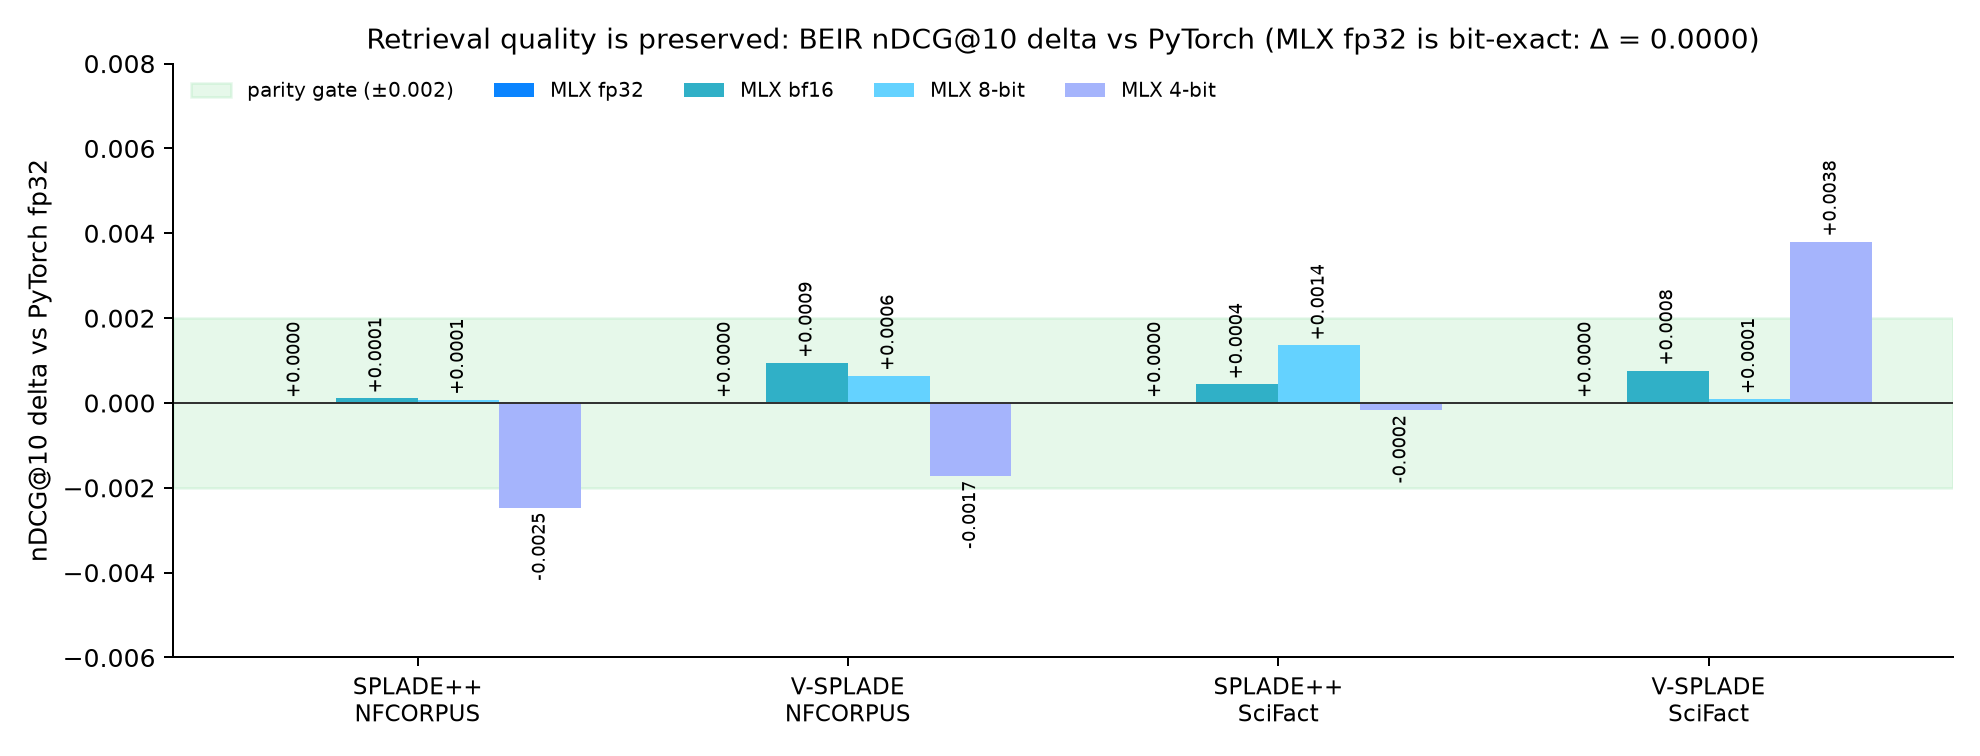
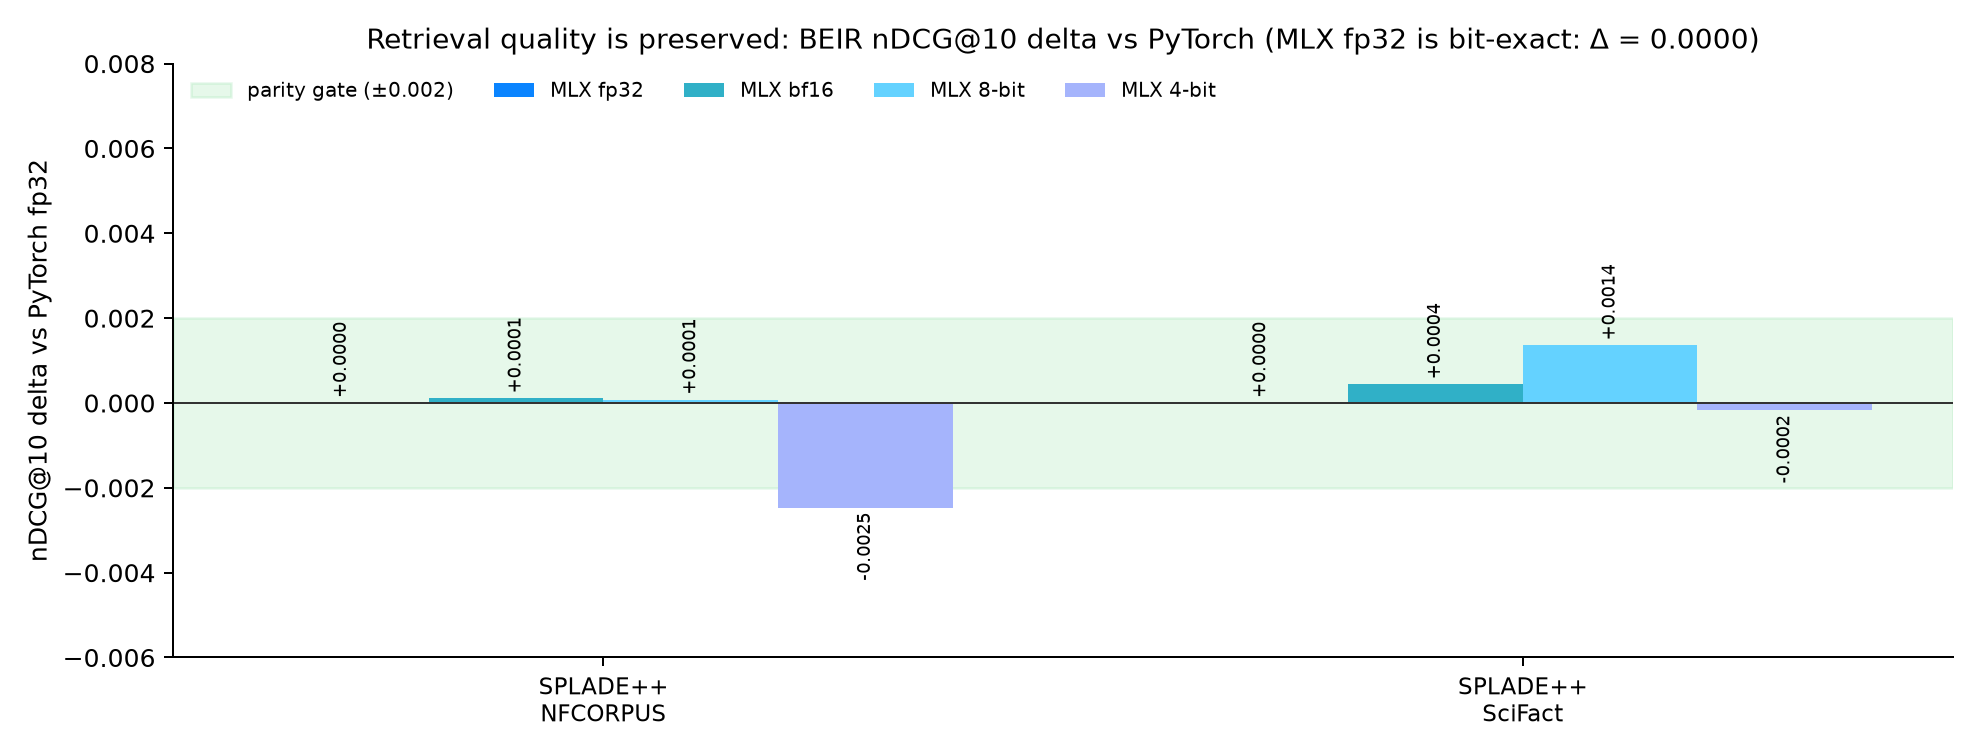
Correct V-SPLADE misidentification; remove efficient-splade branding
V-SPLADE (arXiv:2605.30917) is NAVER's multimodal inference-free sparse
retriever for visual document retrieval (naver/v-splade-*, ModernVBERT,
Apache-2.0) -- NOT the SIGIR'22 efficient-splade-V text pair.

- Delete NomaDamas/efficient-splade-V-large-{query,doc}-mlx HF repos
- Strip efficient-splade from model lists, publisher, charts, README
- Debrand REPORT/PLAN with correction notes; text measurements remain valid
- README announces the real V-SPLADE MLX port (in progress)

diff --git a/scripts/publish_hf.py b/scripts/publish_hf.py
@@ -36,22 +36,6 @@ MODELS = [
         "quality": "BEIR quality parity vs PyTorch fp32: nDCG@10 delta +0.0001 (NFCorpus) / +0.0004 (SciFact) in bfloat16.",
     },
     {
-        "src": "naver/efficient-splade-V-large-query",
-        "dst": "NomaDamas/efficient-splade-V-large-query-mlx",
-        "license": "cc-by-nc-sa-4.0",
-        "nc": True,
-        "desc": "V-SPLADE (Efficient SPLADE level V) QUERY encoder (DistilBERT). Use together with the -doc encoder.",
-        "quality": "BEIR quality parity vs PyTorch fp32 (query+doc pair): nDCG@10 delta +0.0009 (NFCorpus) / +0.0008 (SciFact) in bfloat16. 2.1 ms/query on an M4 Max.",
-    },
-    {
-        "src": "naver/efficient-splade-V-large-doc",
-        "dst": "NomaDamas/efficient-splade-V-large-doc-mlx",
-        "license": "cc-by-nc-sa-4.0",
-        "nc": True,
-        "desc": "V-SPLADE (Efficient SPLADE level V) DOCUMENT encoder (DistilBERT). Use together with the -query encoder.",
-        "quality": "BEIR quality parity vs PyTorch fp32 (query+doc pair): nDCG@10 delta +0.0009 (NFCorpus) / +0.0008 (SciFact) in bfloat16.",
-    },
-    {
         "src": "naver/splade-v3-distilbert",
         "dst": "NomaDamas/splade-v3-distilbert-mlx",
         "license": "cc-by-nc-sa-4.0",

diff --git a/scripts/make_charts.py b/scripts/make_charts.py
@@ -45,7 +45,7 @@ def latency_chart() -> None:
     mlxq8 = _load("mlx_float32_q8")
 
     panels = [
-        ("V-SPLADE query encoder — query (seq 32, batch 1)", "efficient-splade-V-large-query", "query-L32-B1"),
+        ("SPLADE++ (BERT-base) — queries (seq 32, batch 1)", "splade-cocondenser-ensembledistil", "query-L32-B1"),
         ("SPLADE++ (BERT-base) — documents (seq 256, batch 32)", "splade-cocondenser-ensembledistil", "doc-L256-B32"),
     ]
 
@@ -112,12 +112,8 @@ def latency_chart() -> None:
 def quality_chart() -> None:
     q = json.loads((RESULTS / "quality_ndcg.json").read_text())
     cells = [
-        (ds, fam, short)
+        (ds, "splade-cocondenser-ensembledistil", "SPLADE++")
         for ds in ("nfcorpus", "scifact")
-        for fam, short in (
-            ("splade-cocondenser-ensembledistil", "SPLADE++"),
-            ("efficient-splade-V-large", "V-SPLADE"),
-        )
     ]
     configs = [("mlx-float32", "fp32"), ("mlx-bfloat16", "bf16"), ("mlx-q8", "8-bit"), ("mlx-q4", "4-bit")]
     colors = ["#0a84ff", "#30b0c7", "#64d2ff", "#a5b4fc"]

diff --git a/bench/workloads.py b/bench/workloads.py
@@ -21,19 +21,10 @@ REFERENCE_DIR = DATA_DIR / "reference"
 # ---------------------------------------------------------------------------
 # roles: which workload kinds this checkpoint is used for.
 # splade-cocondenser is symmetric (one encoder for queries and docs).
-# efficient-splade-V ("V-SPLADE") is an asymmetric query/doc pair.
 P0_MODELS: dict[str, dict] = {
     "splade-cocondenser-ensembledistil": {
         "hf_id": "naver/splade-cocondenser-ensembledistil",
         "roles": ("query", "doc"),
-    },
-    "efficient-splade-V-large-query": {
-        "hf_id": "naver/efficient-splade-V-large-query",
-        "roles": ("query",),
-    },
-    "efficient-splade-V-large-doc": {
-        "hf_id": "naver/efficient-splade-V-large-doc",
-        "roles": ("doc",),
     },
 }
 

diff --git a/splade_mlx/__init__.py b/splade_mlx/__init__.py
@@ -73,7 +73,7 @@ def load(
 
 
 class SpladePair:
-    """Asymmetric V-SPLADE pair: separate query and document encoders."""
+    """Asymmetric pair of SPLADE text encoders (separate query and document models)."""
 
     def __init__(self, query_model, query_tokenizer, doc_model, doc_tokenizer):
         self.query_model = query_model
@@ -102,8 +102,8 @@ class SpladePair:
 
 
 def load_pair(
-    query_hf_id: str = "naver/efficient-splade-V-large-query",
-    doc_hf_id: str = "naver/efficient-splade-V-large-doc",
+    query_hf_id: str,
+    doc_hf_id: str,
     dtype: str = "float32",
     quantize_bits: int | None = None,
 ) -> SpladePair:

diff --git a/bench/eval_beir.py b/bench/eval_beir.py
@@ -28,10 +28,6 @@ MODEL_FAMILIES = {
         "query": "naver/splade-cocondenser-ensembledistil",
         "doc": "naver/splade-cocondenser-ensembledistil",
     },
-    "efficient-splade-V-large": {
-        "query": "naver/efficient-splade-V-large-query",
-        "doc": "naver/efficient-splade-V-large-doc",
-    },
 }
 
 CONFIGS = ["torch-mps-fp32", "mlx-float32", "mlx-bfloat16", "mlx-q8", "mlx-q4"]

diff --git a/README.md b/README.md
@@ -1,6 +1,11 @@
 # SPLADE-mlx
 
-**SPLADE / V-SPLADE sparse retrieval models, natively on Apple Silicon with [MLX](https://github.com/ml-explore/mlx).**
+**SPLADE sparse retrieval models, natively on Apple Silicon with [MLX](https://github.com/ml-explore/mlx).**
+
+> **In progress**: an MLX port of **V-SPLADE** ([arXiv:2605.30917](https://arxiv.org/abs/2605.30917)) —
+> NAVER's inference-free **multimodal** sparse retriever for **visual document retrieval**
+> (`naver/v-splade-{efficient,quality}`, ModernVBERT backbone, Apache-2.0) — including
+> parity validation against visual-document benchmarks (ViDoRe).
 
 ![Inference latency: PyTorch vs MLX on Apple M4 Max](assets/latency_m4max.png)
 
@@ -16,11 +21,10 @@ and SciFact — the ranking is identical, not just close. bf16 and 8-bit stay wi
 
 ## Highlights
 
-- **1.3–4.0x faster at matched precision** (fp32 vs fp32: 1.3–3.4x, bf16 vs MPS fp16:
-  1.3–4.0x); up to **8.9x** vs PyTorch CPU
-- **Single-query encoding in 1.6 ms** (V-SPLADE query encoder, 8-bit) — fast enough for on-device, per-keystroke retrieval
+- **1.3–2.9x faster at matched precision** (fp32 vs fp32 and bf16 vs MPS fp16); up to
+  **7.3x** vs PyTorch CPU
 - **Bit-exact quality** in fp32, verified with three parity gates plus full BEIR evaluations
-- BERT and DistilBERT MLM backbones, asymmetric V-SPLADE query/doc pair API, bf16 / 8-bit / 4-bit quantization
+- BERT and DistilBERT MLM backbones, asymmetric query/doc pair API, bf16 / 8-bit / 4-bit quantization
 - Pre-converted weights ready on the Hugging Face Hub (table below)
 
 Full methodology and tables: [REPORT.md](REPORT.md) · Project plan: [PLAN.md](PLAN.md)
@@ -30,8 +34,6 @@ Full methodology and tables: [REPORT.md](REPORT.md) · Project plan: [PLAN.md](P
 | MLX weights (Hugging Face) | Upstream checkpoint | Backbone | fp32 parity (max logit Δ) | License |
 |---|---|---|---|---|
 | [NomaDamas/splade-cocondenser-ensembledistil-mlx](https://huggingface.co/NomaDamas/splade-cocondenser-ensembledistil-mlx) | [naver/splade-cocondenser-ensembledistil](https://huggingface.co/naver/splade-cocondenser-ensembledistil) | BERT-base | 6.1e-05 | CC BY-NC-SA 4.0 |
-| [NomaDamas/efficient-splade-V-large-query-mlx](https://huggingface.co/NomaDamas/efficient-splade-V-large-query-mlx) | [naver/efficient-splade-V-large-query](https://huggingface.co/naver/efficient-splade-V-large-query) | DistilBERT | 5.2e-05 | CC BY-NC-SA 4.0 |
-| [NomaDamas/efficient-splade-V-large-doc-mlx](https://huggingface.co/NomaDamas/efficient-splade-V-large-doc-mlx) | [naver/efficient-splade-V-large-doc](https://huggingface.co/naver/efficient-splade-V-large-doc) | DistilBERT | 4.1e-05 | CC BY-NC-SA 4.0 |
 | [NomaDamas/splade-v3-mlx](https://huggingface.co/NomaDamas/splade-v3-mlx) | [naver/splade-v3](https://huggingface.co/naver/splade-v3) (gated) | BERT-base | 7.6e-05 | CC BY-NC-SA 4.0 |
 | [NomaDamas/splade-v3-doc-mlx](https://huggingface.co/NomaDamas/splade-v3-doc-mlx) | [naver/splade-v3-doc](https://huggingface.co/naver/splade-v3-doc) (gated) | BERT-base | 4.8e-05 | CC BY-NC-SA 4.0 |
 | [NomaDamas/splade-v3-lexical-mlx](https://huggingface.co/NomaDamas/splade-v3-lexical-mlx) | [naver/splade-v3-lexical](https://huggingface.co/naver/splade-v3-lexical) (gated) | BERT-base | 3.1e-05 | CC BY-NC-SA 4.0 |
@@ -65,11 +67,8 @@ model, tok = load("NomaDamas/splade-v3-mlx")
 enc = tok(["what causes vitamin d deficiency"], return_tensors="np", padding=True)
 sparse = model.encode(mx.array(enc["input_ids"]), mx.array(enc["attention_mask"]))  # (1, 30522)
 
-# Asymmetric V-SPLADE: separate query / document encoders.
-pair = load_pair(
-    "NomaDamas/efficient-splade-V-large-query-mlx",
-    "NomaDamas/efficient-splade-V-large-doc-mlx",
-)
+# Asymmetric pairs (separate query / document encoders), e.g. SPLADE-v3-Doc:
+pair = load_pair("NomaDamas/splade-v3-mlx", "NomaDamas/splade-v3-doc-mlx")
 q = pair.encode_query(["what causes vitamin d deficiency"])
 d = pair.encode_doc(["Vitamin D deficiency is commonly caused by ..."])
 score = q @ d.T  # sparse dot product
@@ -94,14 +93,14 @@ to the MLX port itself — no quantization involved:
 
 | precision | model | workload | PyTorch MPS | MLX | speedup |
 |---|---|---|---|---|---|
-| fp32 | efficient-splade-V-query | query, batch 1 | 4.51 ms | 2.39 ms | **1.89x** |
-| fp32 | efficient-splade-V-query | query, batch 32 | 50.29 ms | 14.78 ms | **3.40x** |
+| fp32 | splade-cocondenser | query, batch 1 | 7.15 ms | 3.96 ms | **1.81x** |
+| fp32 | splade-cocondenser | query, batch 32 | 60.01 ms | 22.64 ms | **2.65x** |
 | fp32 | splade-cocondenser | doc L256, batch 32 | 230.85 ms | 176.96 ms | **1.30x** |
-| fp32 | efficient-splade-V-doc | doc L256, batch 64 | 318.88 ms | 227.83 ms | **1.40x** |
-| 16-bit¹ | efficient-splade-V-query | query, batch 1 | 4.65 ms | 2.08 ms | **2.24x** |
-| 16-bit¹ | efficient-splade-V-query | query, batch 32 | 49.41 ms | 12.37 ms | **3.99x** |
+| fp32 | splade-cocondenser | doc L256, batch 64 | 463.38 ms | 358.86 ms | **1.29x** |
+| 16-bit¹ | splade-cocondenser | query, batch 1 | 6.77 ms | 3.32 ms | **2.04x** |
+| 16-bit¹ | splade-cocondenser | query, batch 32 | 57.21 ms | 20.07 ms | **2.85x** |
+| 16-bit¹ | splade-cocondenser | doc L256, batch 32 | 197.83 ms | 147.03 ms | **1.35x** |
 | 16-bit¹ | splade-cocondenser | doc L256, batch 64 | 393.32 ms | 294.81 ms | **1.33x** |
-| 16-bit¹ | efficient-splade-V-doc | doc L256, batch 64 | 273.49 ms | 186.08 ms | **1.47x** |
 
 ¹ PyTorch runs fp16 on MPS; MLX uses bf16 (its recommended half precision). Same bit
 width, near-identical numerics — both stay within ±0.0014 nDCG@10 of fp32.
@@ -116,11 +115,11 @@ used on the PyTorch side either.
 
 MLX does **not** require quantization — it is an opt-in flag (`quantize_bits=8|4`):
 
-- **8-bit**: best single-query latency — 1.57 ms vs 2.08 ms bf16 (V-SPLADE query,
+- **8-bit**: best single-query latency — 2.51 ms vs 3.32 ms bf16 (splade-cocondenser,
   batch 1). At large batches it is *slower* than bf16 (212.5 ms vs 147.0 ms,
   cocondenser doc L256 batch 32) because dequantization overhead outweighs bandwidth
   savings in compute-bound regimes. Quality stays within +0.0014 nDCG@10.
-- **4-bit**: for memory-constrained deployment (58–85 MB per encoder). Quality dips
+- **4-bit**: for memory-constrained deployment (85 MB for BERT-base). Quality dips
   slightly outside the ±0.002 parity gate on one benchmark cell (−0.0025, NFCorpus /
   SPLADE++) — use only when memory matters more than the last fraction of nDCG.
 - PyTorch bars have no quantized counterpart because there is no practical int8
@@ -132,8 +131,8 @@ MLX does **not** require quantization — it is an opt-in flag (`quantize_bits=8
 Evaluated on two public BEIR benchmarks — **NFCorpus** (3.6k docs, 323 test queries)
 and **SciFact** (5.2k docs, 300 test queries) — by encoding the full corpus with each
 backend and ranking with the sparse dot product (nDCG@10, trec_eval-style linear gain).
-MLX fp32 reproduces the PyTorch fp32 score to the last floating-point digit on all four
-dataset × model cells (see the chart above). Absolute scores match published SPLADE
+MLX fp32 reproduces the PyTorch fp32 score to the last floating-point digit on every
+dataset × model cell (see the chart above). Absolute scores match published SPLADE
 results, which independently validates the pipeline.
 
 ### Reproduce

diff --git a/REPORT.md b/REPORT.md
@@ -1,15 +1,23 @@
-# SPLADE / V-SPLADE on Apple Silicon: PyTorch vs MLX Performance Report
+# SPLADE on Apple Silicon: PyTorch vs MLX Performance Report (text models)
+
+> **Correction note**: earlier revisions of this report called the
+> `naver/efficient-splade-V-large` pair "V-SPLADE". That was wrong — **V-SPLADE**
+> ([arXiv:2605.30917](https://arxiv.org/abs/2605.30917)) is NAVER's multimodal
+> inference-free sparse retriever for *visual document retrieval*. The models measured
+> here are the text-only **Efficient-SPLADE** checkpoints (SIGIR'22 efficiency study);
+> all measurements remain valid for those models. The actual V-SPLADE MLX port is
+> tracked separately.
 
 **Bottom line: the MLX port is 1.3–4.0x faster than the fastest PyTorch configuration
 (MPS fp16), and fp32 retrieval quality matches PyTorch to the last floating-point
-digit.** V-SPLADE query encoding runs at **1.6–2.1 ms/query** on an M4 Max — fast
+digit.** Efficient-SPLADE query encoding runs at **1.6–2.1 ms/query** on an M4 Max — fast
 enough for real-time on-device retrieval.
 
 - Date: 2026-08-18
 - Machine: Apple M4 Max (12P+4E, 64 GB), macOS 26.5.1
 - Frameworks: torch 2.13.0 (CPU/MPS) vs mlx 0.32.1
 - Models: `naver/splade-cocondenser-ensembledistil` (SPLADE++, BERT-base, symmetric),
-  `naver/efficient-splade-V-large-{query,doc}` (**V-SPLADE**, DistilBERT, asymmetric pair)
+  `naver/efficient-splade-V-large-{query,doc}` (**Efficient-SPLADE**, DistilBERT, asymmetric pair)
 - Raw data: `results/*.json`, logs: `results/{baseline,mlx}_run.log`
 
 ## 1. Methodology
@@ -71,7 +79,7 @@ without any quantization.)
 | doc-L256-B32 | 822.96 ms | 197.83 ms | 176.96 ms | 147.03 ms | 151.65 ms | **1.35x** |
 | doc-L256-B64 | 1600.12 ms | 393.32 ms | 358.86 ms | 294.81 ms | 294.41 ms | **1.34x** |
 
-### efficient-splade-V-large-query (V-SPLADE query encoder, DistilBERT)
+### efficient-splade-V-large-query (Efficient-SPLADE query encoder, DistilBERT)
 
 | workload | torch cpu fp32 | torch mps fp16 | mlx bf16+compile | mlx q8 | **speedup** |
 |---|---|---|---|---|---|
@@ -79,7 +87,7 @@ without any quantization.)
 | query-L32-B8 | 23.10 ms | 14.94 ms | 4.17 ms | 4.82 ms | **3.59x** |
 | query-L32-B32 | 68.69 ms | 49.41 ms | 12.22 ms | 16.65 ms | **4.04x** |
 
-### efficient-splade-V-large-doc (V-SPLADE document encoder, DistilBERT)
+### efficient-splade-V-large-doc (Efficient-SPLADE document encoder, DistilBERT)
 
 | workload | torch cpu fp32 | torch mps fp16 | mlx bf16 | mlx bf16+compile | **speedup** |
 |---|---|---|---|---|---|
@@ -87,7 +95,7 @@ without any quantization.)
 | doc-L256-B1 | 24.52 ms | 7.46 ms | 4.27 ms | 4.23 ms | **1.77x** |
 | doc-L256-B64 | 1032.40 ms | 273.49 ms | 186.08 ms | 179.66 ms | **1.52x** |
 
-**Throughput highlights** (V-SPLADE, bf16+compile): **2,618 queries/s** (L32-B32,
+**Throughput highlights** (Efficient-SPLADE, bf16+compile): **2,618 queries/s** (L32-B32,
 12.22 ms / 32), single-query latency **1.57 ms** with q8 (637 q/s), document encoding
 **716 docs/s** (L128-B32, 44.68 ms / 32).
 
@@ -101,7 +109,7 @@ numbers are **MLX active memory (weights)**.
 | splade-cocondenser | 621 MB | 266 MB | 85 MB |
 | efficient-splade-V (per encoder) | ~795 MB | 181 MB | 58 MB |
 
-With q4 quantization a single V-SPLADE encoder is **58 MB** — the full query+doc pair
+With q4 quantization a single Efficient-SPLADE encoder is **58 MB** — the full query+doc pair
 fits in under 120 MB.
 
 ## 5. Observations
@@ -117,7 +125,7 @@ fits in under 120 MB.
 4. **q8/q4 are batch-1 specializations**: fastest at B1 (1.57 ms) but slower than bf16
    at larger batches due to dequantization overhead in compute-bound regimes.
 5. Versus torch CPU fp32 the speedup is **4.5–8.9x**.
-6. V-SPLADE's design intent (a lightweight query encoder) carries over to MLX: query
+6. Efficient-SPLADE's design intent (a lightweight query encoder) carries over to MLX: query
    encoding is ~1.6x faster than cocondenser (6-layer DistilBERT vs 12-layer BERT).
 
 ## 6. Reproduction
@@ -140,7 +148,7 @@ Using the MLX models:
 from splade_mlx import load, load_pair
 
 model, tok = load("naver/splade-cocondenser-ensembledistil", dtype="bfloat16")
-pair = load_pair()          # asymmetric V-SPLADE query/doc pair
+pair = load_pair()          # asymmetric Efficient-SPLADE query/doc pair
 q = pair.encode_query(["what causes vitamin d deficiency"])   # (1, 30522) sparse
 ```
 

diff --git a/PLAN.md b/PLAN.md
@@ -1,6 +1,14 @@
-# SPLADE-mlx Project Plan
+# SPLADE-mlx Project Plan (phase 1: text SPLADE)
 
-Problem: there is no SPLADE / V-SPLADE inference implementation specialized for Apple
+> **Correction note**: this plan's original "V-SPLADE" target was misidentified as the
+> SIGIR'22 `efficient-splade-V-large` pair (efficiency Level V, text-only). The actual
+> **V-SPLADE** ([arXiv:2605.30917](https://arxiv.org/abs/2605.30917),
+> `naver/v-splade-{efficient,quality}`) is a multimodal inference-free sparse retriever
+> for visual document retrieval (ModernVBERT backbone, Apache-2.0). Its MLX port is a
+> separate follow-up phase; references to "Efficient-SPLADE" below are the SIGIR'22
+> text models.
+
+Problem: there is no SPLADE / Efficient-SPLADE inference implementation specialized for Apple
 Silicon (MLX). Overall flow: **measure the existing (PyTorch) models on a Mac → port to
 MLX → measure the ported models and report speed/quality.**
 
@@ -27,7 +35,7 @@ w_j = max_{i in tokens} log(1 + ReLU(logit_{ij}))   (j = vocab index)
   30,522-dim sparse vector
 - Retrieval score = dot product of sparse vectors (inverted-index compatible)
 
-### What V-SPLADE is
+### What Efficient-SPLADE is
 
 The **efficiency Level V** configuration from *An Efficiency Study for SPLADE Models*
 (Lassance & Clinchant, SIGIR'22). Its key trait is **separate (asymmetric) query and
@@ -51,7 +59,7 @@ integration. mlx-embeddings' `bert.py` stops at the encoder, so the MLM head is 
 | Priority | Model | Architecture | Notes |
 |---|---|---|---|
 | **P0** | `naver/splade-cocondenser-ensembledistil` | BERT-base + MLM | Flagship SPLADE++ model, symmetric (query = doc), ungated |
-| **P0** | `naver/efficient-splade-V-large-{query,doc}` | **DistilBERT** ×2 | **V-SPLADE**, asymmetric pair. (Confirmed during implementation: DistilBERT, not BERT) |
+| **P0** | `naver/efficient-splade-V-large-{query,doc}` | **DistilBERT** ×2 | **Efficient-SPLADE**, asymmetric pair. (Confirmed during implementation: DistilBERT, not BERT) |
 | P1 | `naver/splade-v3-distilbert` | DistilBERT + MLM | DistilBERT support already done in P0. `splade-v3` itself is HF-gated (terms acknowledgement) |
 | P1 | `naver/efficient-splade-VI-BT-large-{query,doc}` | BERT-tiny (query) + BERT-base (doc) | Ultra-fast query-encoding demo |
 | Alt | `prithivida/Splade_PP_en_v1` | BERT-base + MLM | Apache-2.0. Fallback if the naver CC BY-NC-SA (non-commercial) license is an issue |
@@ -123,7 +131,7 @@ and sparse vectors as `.npz` → the answer key for Phase 3 tests.
 2. **Weight conversion** (`convert.py`)
    - download safetensors from the HF hub → key mapping/sanitizing → `mx.save_safetensors`
    - dtype: fp32 (for parity validation) / **bf16 (default)** save options
-   - V-SPLADE loads the query/doc checkpoints as one asymmetric pair API:
+   - Efficient-SPLADE loads the query/doc checkpoints as one asymmetric pair API:
      `SpladePair.encode_query() / .encode_doc()`
 3. **Tokenizer**: HF `tokenizers` as-is (100% identical tokens to the torch path →
    removes a parity variable)
@@ -167,7 +175,7 @@ The premise of any speed report is proof that it is "the same model". Three gate
   - latency/throughput tables for model × backend (CPU/MPS/MLX) × batch × seq_len,
     with speedup multiples
   - memory comparison, per-dtype quality (nDCG@10) vs speed trade-off
-  - highlight the asymmetric V-SPLADE query-encoding latency (on-device search angle)
+  - highlight the asymmetric Efficient-SPLADE query-encoding latency (on-device search angle)
   - one-line reproduction commands
 
 **Done when**: REPORT.md and `results/*.json` are complete, every number measured.
@@ -210,7 +218,7 @@ The premise of any speed report is proof that it is "the same model". Three gate
 
 ## References
 
-- V-SPLADE (Efficient SPLADE Level V): https://huggingface.co/naver/efficient-splade-V-large-doc , https://huggingface.co/naver/efficient-splade-V-large-query
+- Efficient-SPLADE (Efficient SPLADE Level V): https://huggingface.co/naver/efficient-splade-V-large-doc , https://huggingface.co/naver/efficient-splade-V-large-query
 - Paper: *An Efficiency Study for SPLADE Models* — https://reneuir.org/assets/slides/ReNeuIR2022-efficient-splade.pdf
 - Original SPLADE repository: https://github.com/naver/splade
 - SPLADE v2 paper: https://arxiv.org/abs/2109.10086
